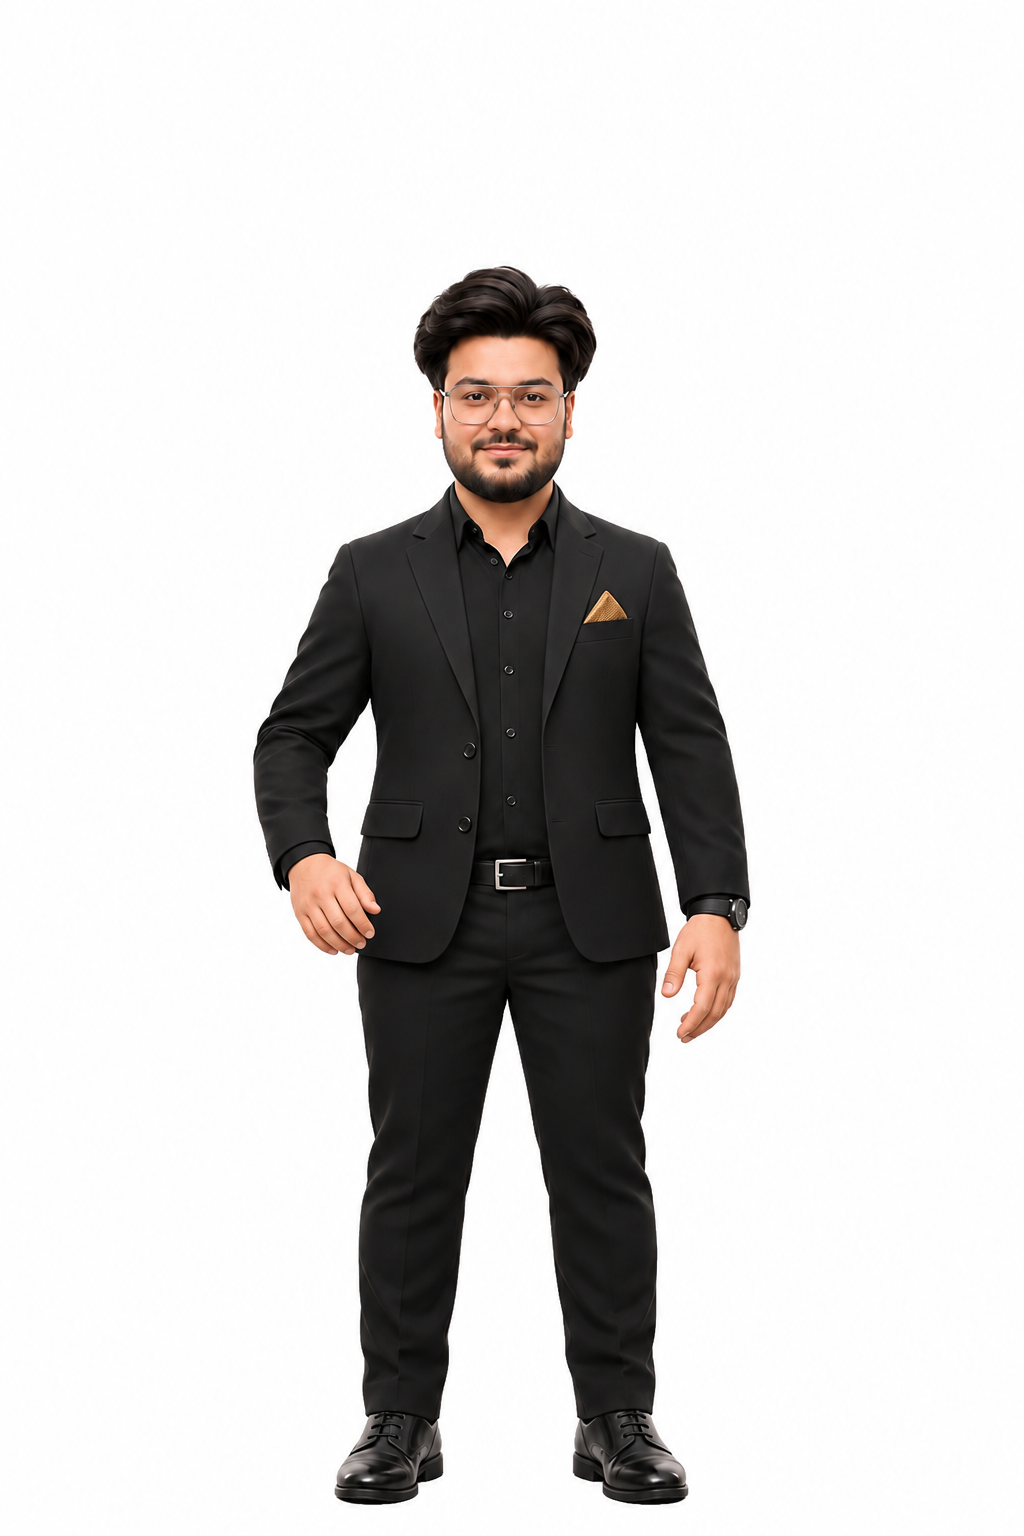
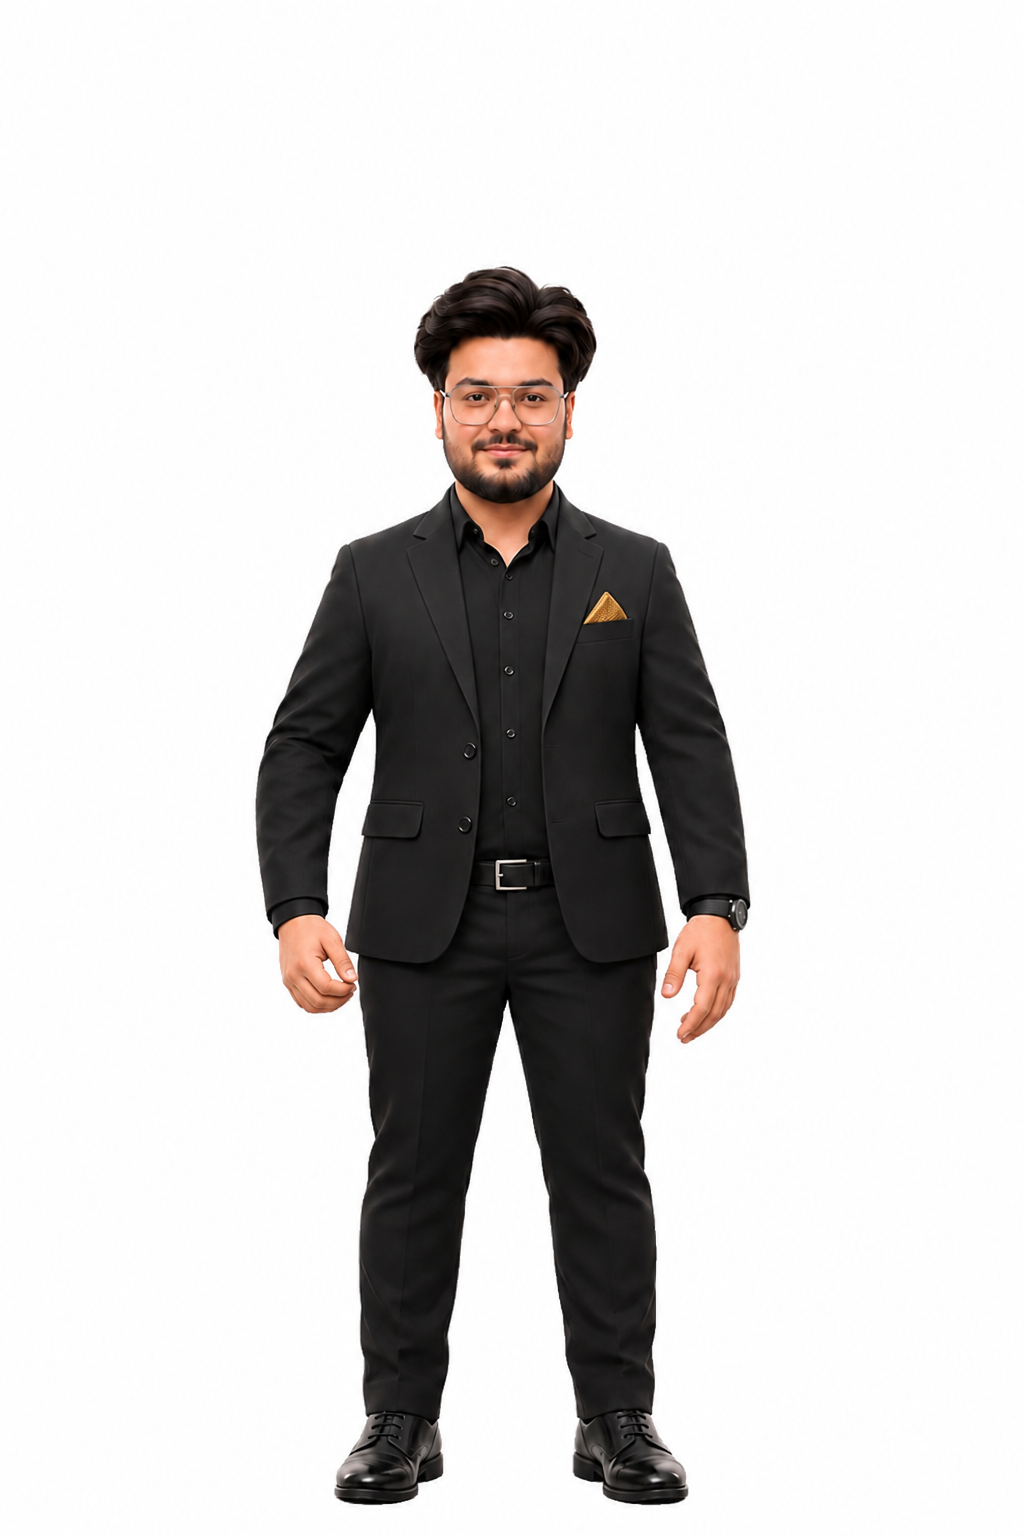
v021 keys thumbsL_q1 and countL_q1 redone with the firmer Q1F prompt (head 2.24/2.03, legs 1.65/1.70); sheet and note updated
Claude-Session: https://claude.ai/code/session_01NLpRHZry7jvqhjGg8jCwxQ

diff --git a/mascot/anim/raw/v021_keys_note.md b/mascot/anim/raw/v021_keys_note.md
@@ -14,11 +14,12 @@ existing keys give head 2.1-2.6, legs 1.7-2.2). The figure's top and bottom are 
 | presentR_q1 | 3 | 2.14 | 2.24 | good quarter-way move |
 | explain_q1 | 3 | 2.25 | 1.73 | about a third of the way, hands forward at hip height |
 | pointcamL_q1 | 2 | 2.28 | 1.66 | fist at hip height, short of the mid |
-| thumbsL_q1 | 3 (kept try 2) | 2.11 | 1.64 | overshoots: fist near belt height, close to the mid |
-| countL_q1 | 3 | 2.34 | 1.85 | fist at hip height; still close to the mid |
+| thumbsL_q1 | 3 + 1 with the firmer Q1F prompt | 2.24 | 1.65 | redone (Nov 25): hand below the jacket beside the thigh, half-closed; a small first move |
+| countL_q1 | 3 + 1 with the firmer Q1F prompt | 2.03 | 1.70 | redone (Nov 25): same small first move, knuckles to the viewer's left |
 | countL_q3 | 2 (1st: download reset) | 3.27 | 2.40 | good halfway pose; hair a little fuller, smile a little wider |
 | shrug_q1 | 1 | 2.07 | 1.79 | good quarter-way move |
 
-The bridge tends to overshoot the q1 keys (the arm goes about a third to a half of the way, not a quarter). If the
-thumbs and count q1 frames look too close to their mids in the animation, a firmer q1 prompt ("the hand moves only a
-hand's width from the thigh") is the next thing to try.
+The bridge tends to overshoot the q1 keys (the arm goes about a third to a half of the way, not a quarter). The user
+asked to redo thumbsL_q1 and countL_q1 with a firmer prompt: `Q1F` in `gen_keys.py` (the mid is only a direction hint,
+the frame must look much closer to the base; the hand moves one hand's width and stays below the jacket hem). Both
+came out right on the first try. If presentL_q1 or explain_q1 look too far along in the animation, give them Q1F too.
